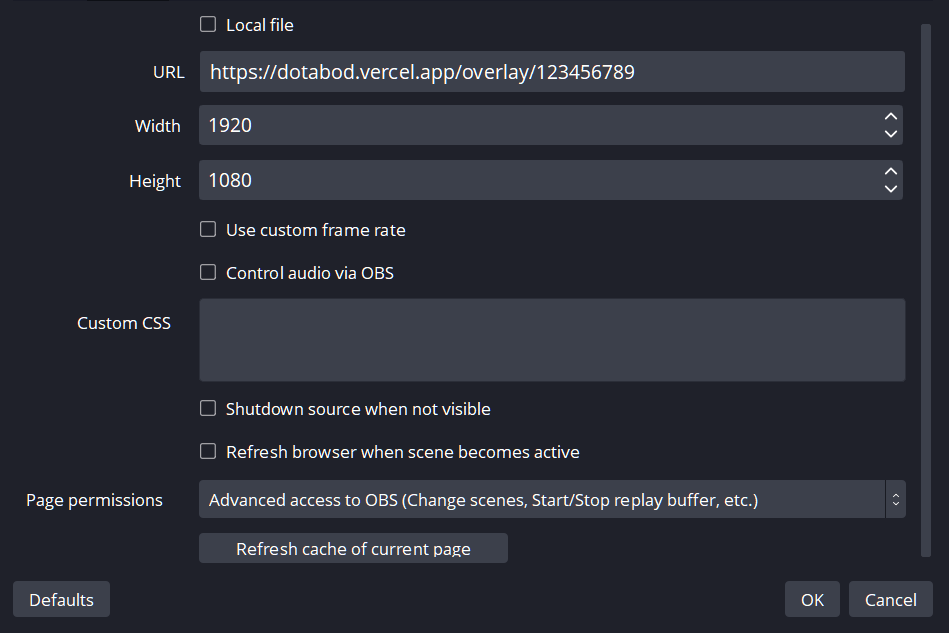
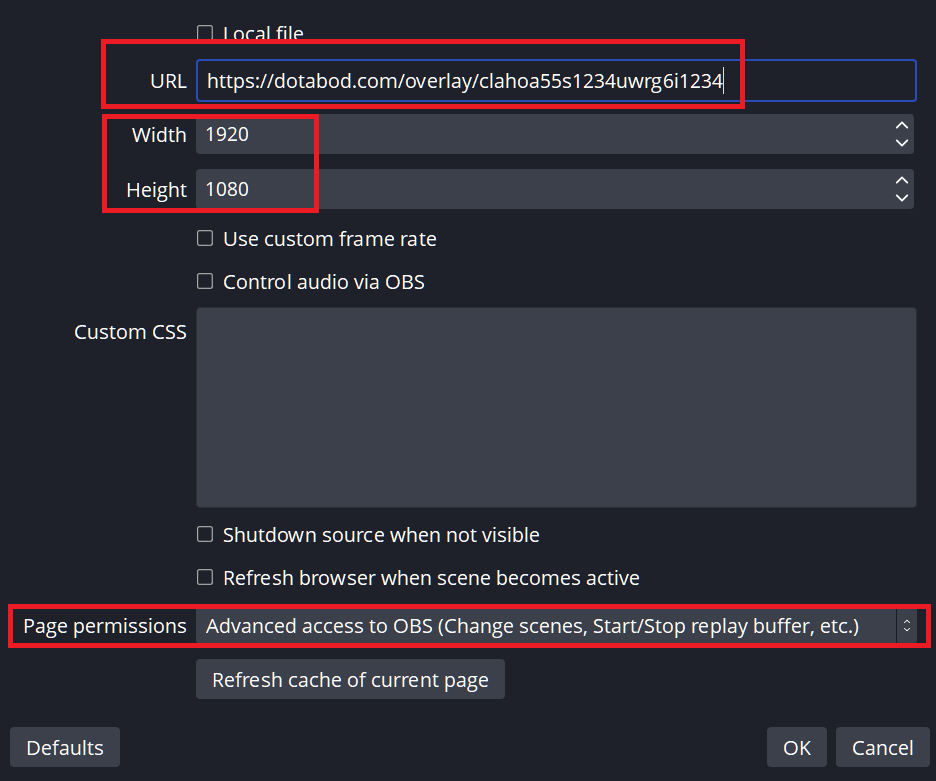
make streamer overlay url sensitive closes #7

diff --git a/src/components/Dashboard/OverlayURL.tsx b/src/components/Dashboard/OverlayURL.tsx
@@ -1,7 +1,8 @@
 import { Card } from '@/ui/card'
 import { useBaseUrl } from '@/lib/hooks'
-import { Collapse, Display, Image, Snippet } from '@geist-ui/core'
+import { Badge, Button, Collapse, Display, Image } from '@geist-ui/core'
 import { useSession } from 'next-auth/react'
+import { CopyButton } from '@mantine/core'
 
 export default function OverlayURL() {
   const user = useSession()?.data?.user
@@ -14,16 +15,30 @@ export default function OverlayURL() {
         title="Step three. OBS Overlay"
         subtitle="Add a new Browser source to OBS."
       >
-        Copy the settings shown below. Change the URL to:
-        <Snippet
-          symbol=""
-          text={copyURL}
-          className="!max-w-[500px] overflow-hidden"
-        />
+        <div className="space-y-2">
+          <p>
+            Copy and paste your personal URL into the URL field for the browser
+            source.
+          </p>
+
+          <div className="space-x-2 text-xs">
+            <Badge type="error" className="!bg-red-800 !text-xs">
+              Warning
+            </Badge>
+            <span>Do not share or show this URL on stream</span>
+          </div>
+          <CopyButton value={copyURL}>
+            {({ copied, copy }) => (
+              <Button type="success" onClick={copy}>
+                {copied ? 'Copied!' : 'Copy your URL'}
+              </Button>
+            )}
+          </CopyButton>
+        </div>
         <Display shadow caption="Dotabod browser source properties in OBS">
           <Image
             alt="dotabod browser source properties"
-            height="433px"
+            height="450px"
             src="/images/dotabod-obs-config.png"
           />
         </Display>
